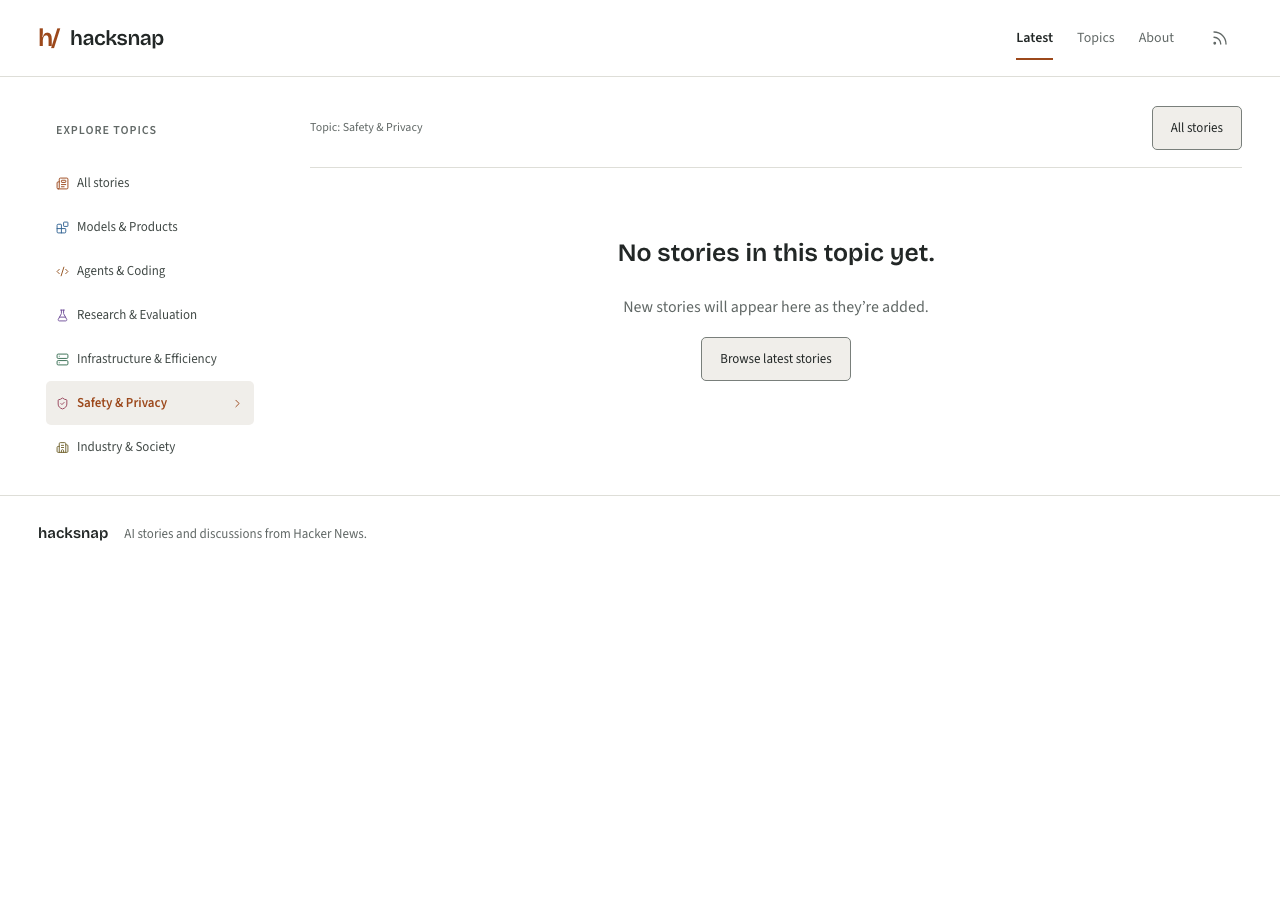
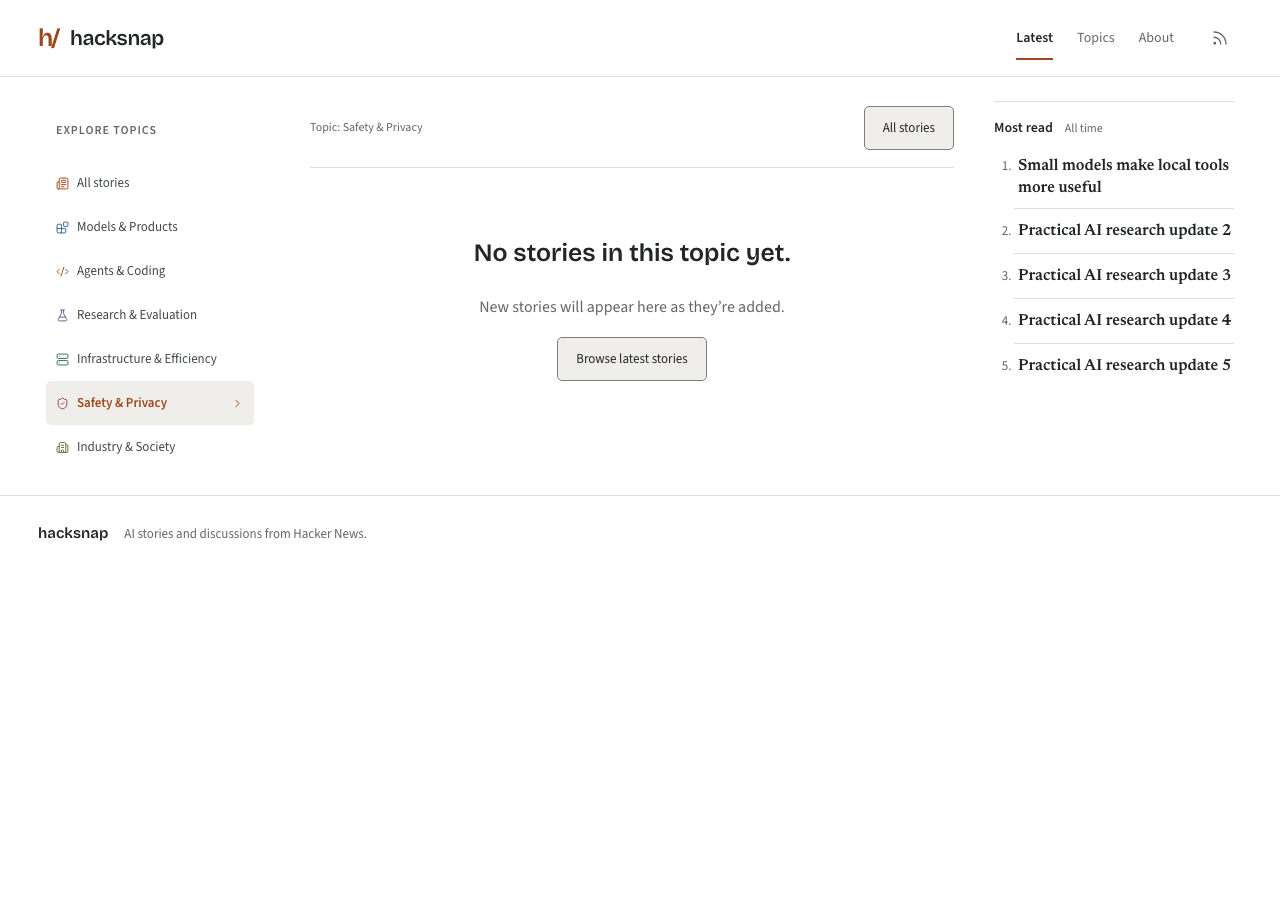
Verify filtered Latest with the most-read sidebar

diff --git a/hacksnap/web/app/[[...path]]/page.tsx b/hacksnap/web/app/[[...path]]/page.tsx
@@ -96,18 +96,23 @@ async function Latest(props: Props) {
   const content = result ? (
     await ArchiveStoryList({ month, page, result, category })
   ) : (
-    <Suspense key={`${category ? categoryURL(category) : archiveURL(month)}:${page}`} fallback={<BrowseLoading />}>
+    <Suspense
+      key={`${category ? categoryURL(category) : archiveURL(month)}:${page}`}
+      fallback={<BrowseLoading />}
+    >
       <LatestContent content={pendingContent!} />
     </Suspense>
   );
   return (
     <BrowseLayout
       active={category?.id ?? (month ? undefined : "home")}
-      rightSidebar={month ? undefined : (
-        <Suspense fallback={<PopularStoriesLoading />}>
-          <PopularStories />
-        </Suspense>
-      )}
+      rightSidebar={
+        month ? undefined : (
+          <Suspense fallback={<PopularStoriesLoading />}>
+            <PopularStories />
+          </Suspense>
+        )
+      }
     >
       {month ? (
         <header className="feed-header archive-month-header">

diff --git a/hacksnap/web/tests/popularity-client.test.tsx b/hacksnap/web/tests/popularity-client.test.tsx
@@ -63,6 +63,7 @@ test("transport sends only the public event payload and tolerates absent or fail
 
 jest.unstable_mockModule("next/navigation", () => ({
   usePathname: () => window.location.pathname,
+  useSearchParams: () => new URLSearchParams(window.location.search),
 }));
 
 test("reader captures canonical story activations without changing navigation or counting non-story links", async () => {

diff --git a/docs/ux/2026-10-05/category-latest-filter/README.md b/docs/ux/2026-10-05/category-latest-filter/README.md
@@ -14,7 +14,9 @@ legacy redirects, invalid filters and the existing asset/rendering budgets.
 Rollout regression tests seed old category journeys and packed snapshots, reload
 the story, and verify both breadcrumb and generic returns restore the canonical
 filtered page, all loaded stories and the saved scroll position.
-The UI retains the site's light appearance under both OS settings.
+The UI retains the site's light appearance under both OS settings. The Latest
+most-read sidebar also appears on filtered feeds, with optional data streamed
+after the required story read starts.
 
 The existing category/page data cache and indexed query remain unchanged.
 No production latency or database-load improvement is claimed.
